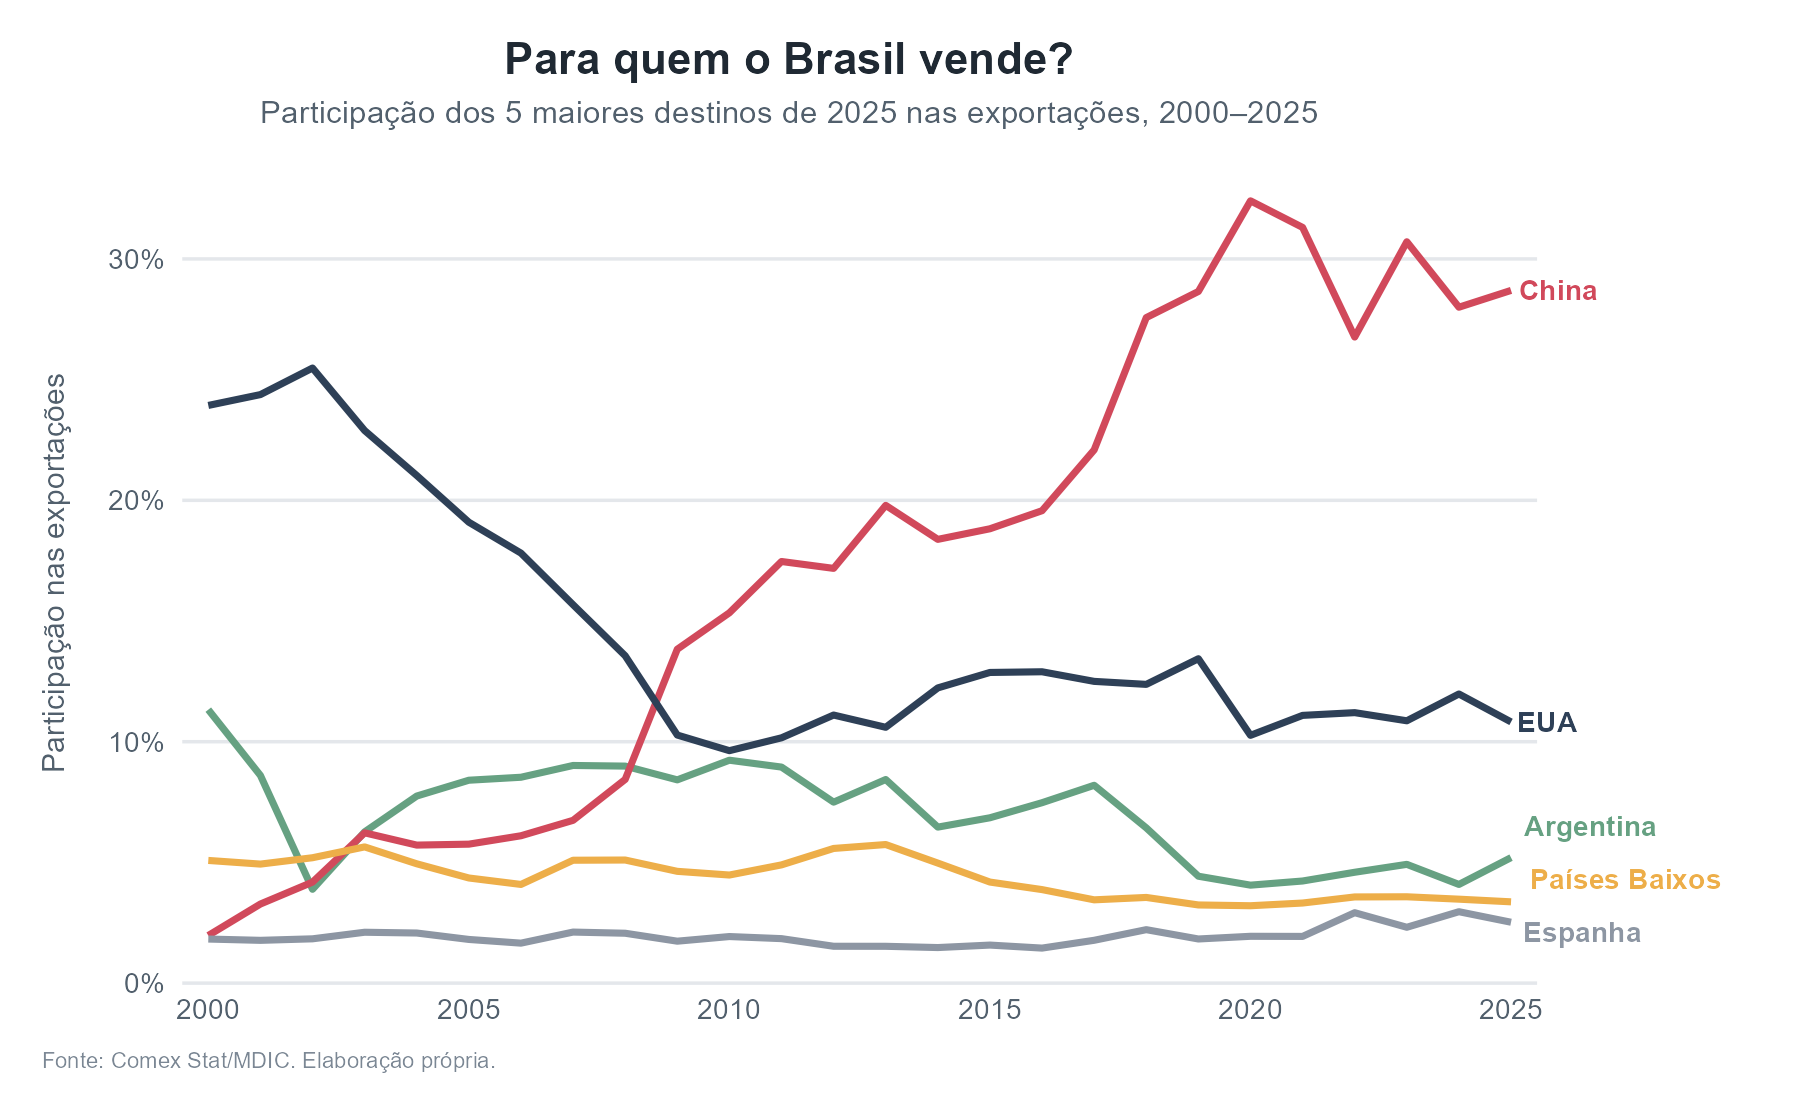
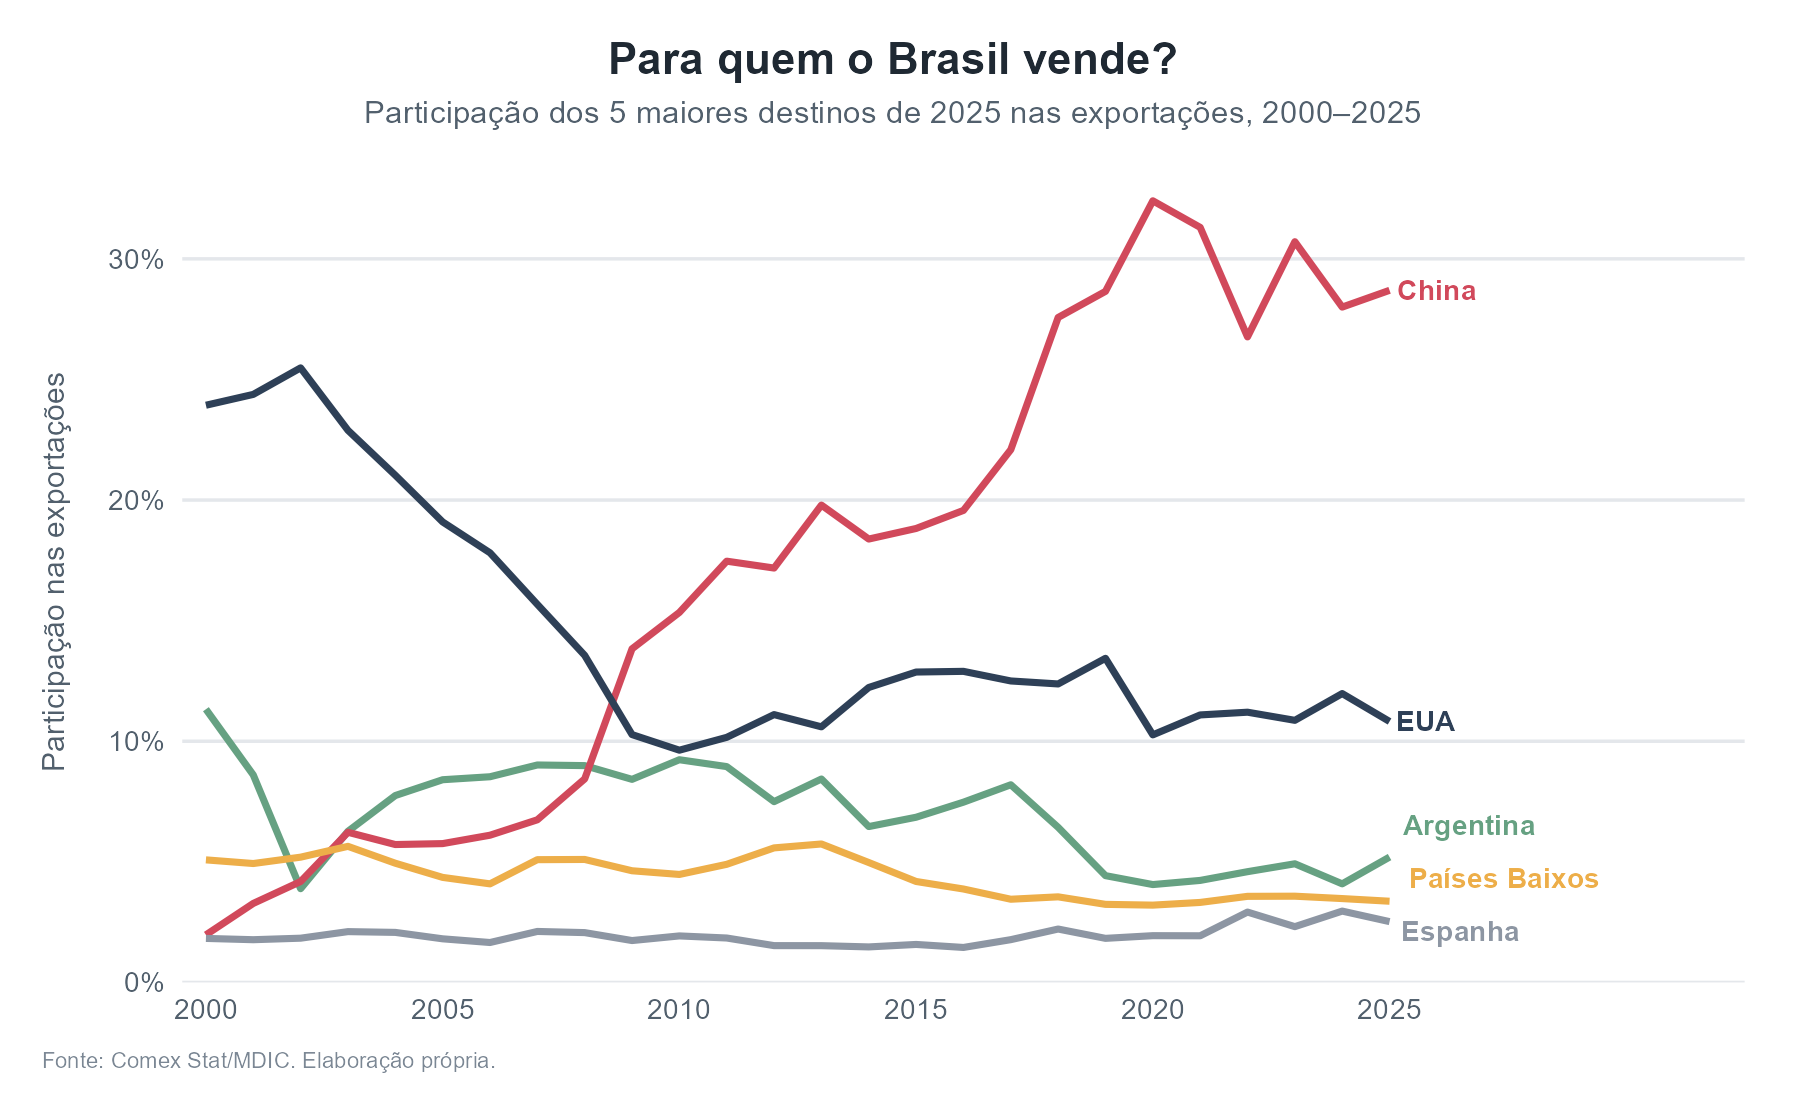
Ajustes README e gráficos

diff --git a/README.md b/README.md
@@ -1,6 +1,6 @@
 # O quanto o Brasil depende da China?
 
-Análise da evolução e da concentração das exportações brasileiras por país de destino, entre 2000 e 2025.
+Análise da evolução e da concentração das exportações brasileiras por país de destino, entre 2000 e 2025, feita em R com dados oficiais do Comex Stat.
 
 ## Pergunta
 A participação da China nas exportações brasileiras cresceu? O Brasil está mais ou menos concentrado em poucos compradores do que há 25 anos?
@@ -9,24 +9,39 @@ A participação da China nas exportações brasileiras cresceu? O Brasil está 
 Comex Stat (Ministério do Desenvolvimento, Indústria, Comércio e Serviços), obtidos pela API oficial com o pacote `comexr` do R. Valores em US$ FOB, agregados por país de destino e por ano.
 
 ## Principais resultados
-- A participação da China subiu de 2% (2000) para 28,7% (2025), com pico de 32,4% em 2020.
-- A China ultrapassou os EUA como principal destino por volta de 2009.
-- O índice de concentração Herfindahl-Hirschman (HHI) por destino caiu até 2008 (470) e depois mais que dobrou, chegando a 1.239 em 2020. Em 2025, é de 1.041.
+- A participação da China nas exportações brasileiras subiu de 2% (2000) para 28,7% (2025), com pico de 32,4% em 2020.
+- A China ultrapassou os EUA como principal destino por volta de 2009. Em 2000, os EUA recebiam quase 24% das exportações; em 2025, 10,8%.
+- O índice de concentração (HHI) por destino caiu até 2008 (470) e depois mais que dobrou, chegando a 1.239 em 2020. Em 2025, é de 1.041.
 
 ![Participação da China](graficos/01_participacao_china.png)
 ![Principais destinos](graficos/02_principais_destinos.png)
 ![Concentração (HHI)](graficos/03_hhi_destinos.png)
 
-## Como interpretar o HHI
-O HHI é a soma dos quadrados das participações de cada país, multiplicada por 10.000. Quanto maior, mais concentradas as exportações. Mesmo com a alta recente, o nível ainda é baixo em termos absolutos; o ponto relevante é a tendência.
+## O que é o índice Herfindahl-Hirschman (HHI)
+O HHI mede o quanto as exportações estão concentradas em poucos compradores. O cálculo tem três passos:
+1. Para cada país de destino, calcula-se sua participação (share) no total exportado.
+2. Cada participação é elevada ao quadrado.
+3. Somam-se os quadrados e multiplica-se por 10.000.
+
+Exemplos simples: se o Brasil vendesse tudo para um único país, o HHI seria 10.000. Com dois compradores de 50% cada, seria 5.000; com quatro de 25%, 2.500; com dez de 10%, 1.000.
+
+Uma forma intuitiva de ler o índice: 10.000 dividido pelo HHI dá o número de "compradores equivalentes" de mesmo tamanho. Em 2008 (HHI = 470), isso equivale a cerca de 21 compradores; em 2025 (HHI = 1.041), a cerca de 10.
+
+O HHI é calculado com **todos** os países de destino, e não só com a China. Mas, como as participações são elevadas ao quadrado, o índice dá muito peso aos maiores compradores. Em 2025, a China (28,7%) responde por cerca de 80% do valor do índice.
 
 ## Limitações
 - Os dados mostram o destino declarado, não o destino final (por exemplo, parte do que vai para os Países Baixos segue para outros países europeus).
 - A análise é feita pelo valor total, sem separar por produto.
+- Não há um valor "certo" de HHI para o comércio exterior. Os limites usados em defesa da concorrência foram criados para mercados de empresas e variam entre países e ao longo do tempo, então servem só como referência. O mais informativo é a tendência ao longo do tempo.
 
 ## Como reproduzir
 1. Abra o projeto `exportacoes_brasil_china.Rproj` no RStudio.
-2. Rode `scripts/01_baixar_dados.R` (coleta pela API; leva alguns minutos).
+2. Rode `scripts/01_baixar_dados.R` (coleta pela API; leva alguns minutos e está sujeita a limites de requisições).
 3. Rode `scripts/02_analise.R` (cálculos e gráficos).
 
 Pacotes utilizados: `comexr`, `dplyr`, `ggplot2`, `scales`.
+
+## Estrutura do repositório
+- `dados/`: dados baixados do Comex Stat e tabelas finais (participação por país e ano, HHI).
+- `scripts/`: códigos em R (coleta e análise).
+- `graficos/`: imagens geradas pela análise.
